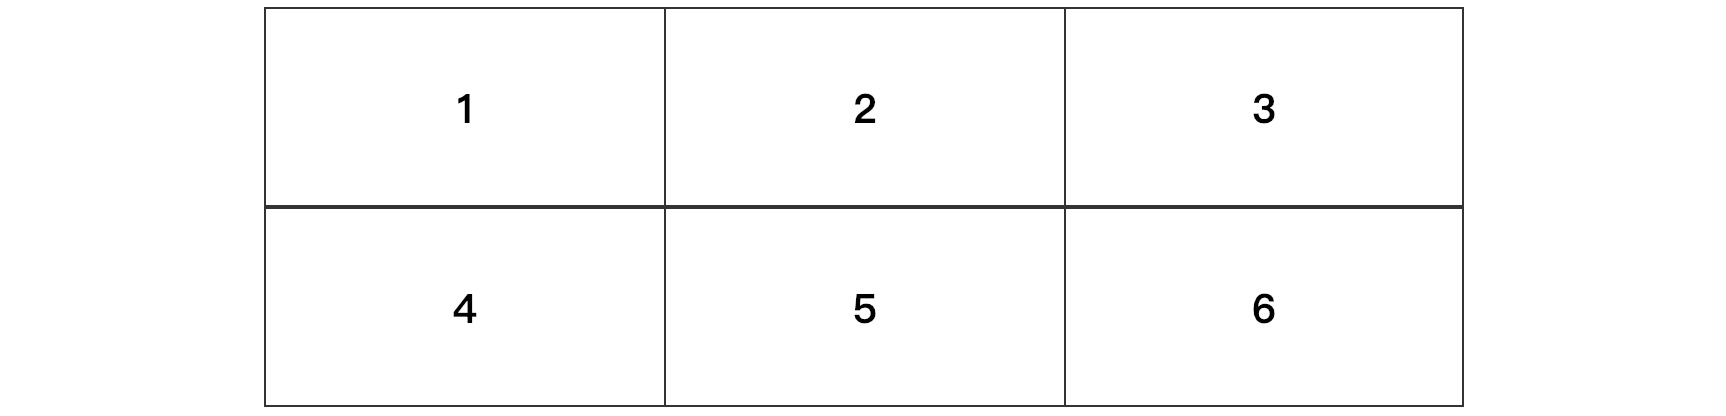
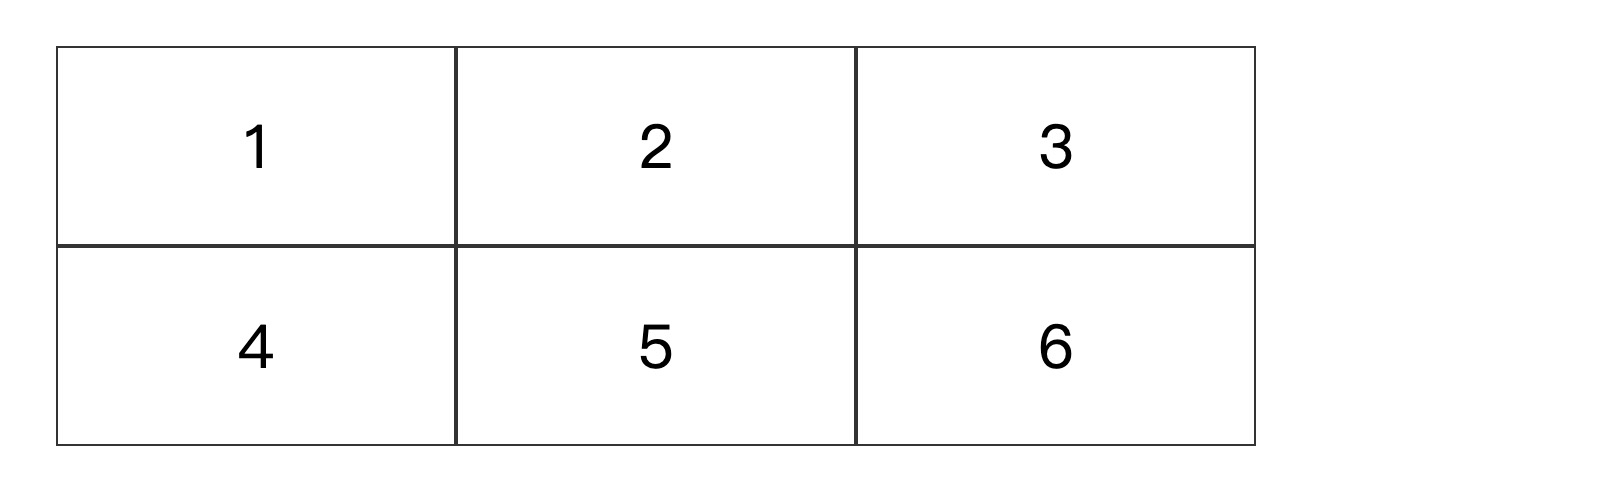
内容鞥更新

diff --git a/第13章 grid 布局.md b/第13章 grid 布局.md
@@ -1,18 +1,18 @@
-# # 概述
+一、概述
 
 Grid 布局是网站设计的基础，CSS Grid 是创建网格布局最强大和最简单的工具。它是一个二维的基于网格的布局系统，其目的只在于完全改变我们设计基于网格的用户界面的方式。 CSS一直用来布局网页，但一直都不完美。 一开始我们使用table 做布局，然后转向浮动、定位以及inline-block，但所有这些方法本质上都是 Hack 的方式，并且遗漏了很多重要的功能（例如垂直居中）。 Flexbox的出现在一定程度上解决了这个问题，但是它的目的是为了更简单的一维布局，而不是复杂的二维布局（Flexbox和Grid实际上一起工作得很好）。 只要我们一直在制作网站，我们就一直在为解决布局问题不断探索， 而Grid是第一个专门为解决布局问题而生的CSS模块。
 
-CSS Grid 布局由两个核心组成部分是 **container**（父元素）和 **items**（子元素）。 container 是实际的 grid(网格)，items 是 grid(网格) 内的内容。
+CSS Grid 布局由两个核心组成，分别是 **container**（父元素）和 **items**（子元素）。 container 是实际的 grid（网格），items 是 grid（网格）内的内容。
 
-# # 基础
+# 二、基础
 
-一开始你需要使用 *display：grid；* 把容器元素定义为一个网格，使用 *grid-template-columns* 和*grid-template-rows* 设置列和行大小，然后使用 *grid-column*  和 *grid-row* 把它的子元素放入网格。 与flexbox类似，网格子元素的原始顺序不重要。 你可以在 CSS 里以任意顺序放置它们，这使得使用媒体查询重新排列网格变得非常容易。 想象一下，我们需要定义整个页面的布局，然后为了适应不同的屏幕宽度完全重新排列，我们只需要几行CSS就能实现这个需求。 网格是有史以来最强大的CSS模块之一。
+一开始你需要使用 `display：grid` 把容器元素定义为一个网格，使用 `grid-template-columns` 和 `grid-template-rows` 设置列和行大小，然后使用 `grid-column`  和 `grid-row` 把它的子元素放入网格。 与flexbox类似，网格子元素的原始顺序不重要。 你可以在 CSS 里以任意顺序放置它们，这使得使用媒体查询重新排列网格变得非常容易。 想象一下，我们需要定义整个页面的布局，然后为了适应不同的屏幕宽度完全重新排列，我们只需要几行CSS就能实现这个需求。 网格是有史以来最强大的CSS模块之一。
 
 截至2017年3月，许多浏览器都提供了原生的、不加前缀的对CSS Grid的支持，比如 Chrome（包括Android），Firefox，Safari（包括iOS）和Opera。 另一方面，Internet Explorer 10和11支持它，但需要使用过时的语法。 Edge浏览器已经宣布将支持标准的Grid语法，但暂未支持
 
-> 浏览器支持的详细数据可在[Caniuse](https://caniuse.com/#feat=css-grid)查看。其中里面的数字表示该版本以上的浏览器支持Grid。
+> 提示：浏览器支持的详细数据可在[Caniuse](https://caniuse.com/#feat=css-grid)查看。其中里面的数字表示该版本以上的浏览器支持Grid。
 
-# # 重要术语
+# 三、重要术语
 
 ## 1. Grid Container
 
@@ -40,7 +40,7 @@ Grid 容器的直接子元素。下面的 `.item` 元素就是 grid item，但 `
 
 ## 3. Grid Line
 
-这个分界线组成网格结构。 它们既可以是垂直的（“column grid lines”），也可以是水平的（“row grid lines”），并位于行或列的任一侧。 下面例中的黄线就是一个列网格线。
+这个分界线组成网格结构。 它们既可以是垂直的（*column grid lines*），也可以是水平的（*row grid lines*），并位于行或列的任一侧。 下面例中的黄线就是一个列网格线。
 
 ![](./IMGS/grid-line.jpeg)
 
@@ -62,34 +62,29 @@ Grid 容器的直接子元素。下面的 `.item` 元素就是 grid item，但 `
 
 ![](./IMGS/grid-area.jpeg)
 
-# # 网格容器属性
+# 四、网格容器属性
 
 ## 01. display
 
-将元素定义为 grid container
+定义网格：
 
 ```css
-.container {
-  display: grid | inline-grid;
-}
+.container { display: grid | inline-grid; }
 ```
-
-- grid： 生成一个块级网格 *
-- inline-grid：生成一个行级网格
 
 ## 02. grid-template-columns、grid-template-rows
 
-使用以空格分隔的多个值来定义网格的列和行。这些值表示网格轨道(Grid Track) 大小（宽/高），它们之间的空格表示网格线。 
+使用以空格分隔的多个值来定义网格的列和行。这些值表示网格轨道大小（宽/高），它们之间的空格表示网格线。 
 
 ```CSS
 .container {
-  grid-template-columns: <track-size> ... | <line-name> <track-size> ...;
-  grid-template-rows: <track-size> ... | <line-name> <track-size> ...;
+  grid-template-columns: <track-size> ... | <[line-name]> <track-size> ...;
+  grid-template-rows: <track-size> ... | <[line-name]> <track-size> ...;
 }
 ```
 
 – `<track-size>`： 可以是长度值，百分比，或者等份网格容器中可用空间（使用 `fr` 单位）
-– `<line-name>`：你可以选择的任意名称
+– `<line-name>`：网格线名称
 
 示例：
 
@@ -103,67 +98,16 @@ Grid 容器的直接子元素。下面的 `.item` 元素就是 grid item，但 `
 
 ![](IMGS/grid-basic.png)
 
-上述代码表示3列2行的网格，每一列的宽度为200px，高度为100px。
+提示：
 
-当你在 网格轨道(Grid Track) 值之间留出空格时，网格线会自动分配正数和负数名称：
-
-```css
-.container {
-    display: grid;
-    grid-template-columns: 40px 50px auto 50px 40px;
-    grid-template-rows: 25% 100px auto;
-}
-```
-
-![](IMGS/template-columns-rows-01.svg)
-
-但是你可以明确的指定网格线(Grid Line)名称，例如 \<line-name> 值。请注意网格线名称的括号语法：
-
-```js
-.container {
-    display: grid;
-    grid-template-columns: [first] 40px [line2] 50px [line3] auto [col4-start] 50px [five] 40px [end];
-    grid-template-rows: [row1-start] 25% [row1-end] 100px [third-line] auto [last-line];
-}
-```
-
-![](IMGS/template-column-rows-02.svg)
-
-> 注意：网格线名称可以有多个，多个名称使用空格隔开。
-
-如果你的定义包含多个重复值，则可以使用 `repeat()` 表示法来简化定义：
-
-```css
-.container {
-    display: grid;
-    grid-template-columns: repeat(3, 100px);
-    grid-template-rows: 50px 50px;
-}
-```
-
-`fr` 单位允许你用等分网格容器剩余可用空间来设置网格轨道(Grid Track) 的大小 。例如，下面的代码会将每个网格项设置为网格容器宽度的三分之一：
-
-```js
-.container {
-    display: grid;
-    grid-template-columns: repeat(3, 1fr);
-    grid-template-rows: 50px 50px;
-}
-```
-
-剩余可用空间是除去所有非灵活网格项 **之后** 计算得到的。在这个例子中，可用空间总量减去 50px 后，再给 `fr` 单元的值 3 等分：
-
-```css
-.container {
-    display: grid;
-    grid-template-columns: repeat(3, 1fr) 50px;
-    grid-template-rows: 50px 50px;
-}
-```
+- 当你在 网格轨道(Grid Track) 值之间留出空格时，网格线会自动分配正数和负数名称，计数从1或-1开始。
+- 你可以用中括号明确指定网格线名称，如果要设置多个名称用空格隔开。
+- 如果你的定义包含多个重复值，则可以使用 `repeat()` 表示法来简化定义。
+- 你可以使用 `fr` 单位平分剩余控件。
 
 ## 03. grid-template-areas
 
-通过引用 [`grid-area`](https://www.css88.com/archives/8510#prop-grid-area) 属性指定的网格区域(Grid Area) 名称来定义网格模板。重复网格区域的名称导致内容跨越这些单元格。一个点号（`.`）代表一个空单元格。这个语法本身可视作网格的可视化结构。
+通过引用 [`grid-area`](https://www.css88.com/archives/8510#prop-grid-area) 属性指定的网格区域名称来定义网格模板。重复网格区域的名称导致内容跨越这些单元格。一个点号（`.`）代表一个空单元格。这个语法本身可视作网格的可视化结构。
 
 值：
 
@@ -225,7 +169,7 @@ Grid 容器的直接子元素。下面的 `.item` 元素就是 grid item，但 `
 
 ## 04. grid-gap
 
-指定网格线(grid lines)的大小。你可以把它想象为设置列/行之间的间距。其语法形式如下：
+设置网格间距，其语法形式如下：
 
 ```css
 .container {
@@ -237,21 +181,21 @@ Grid 容器的直接子元素。下面的 `.item` 元素就是 grid item，但 `
 
 ```css
 .container {
-  grid-template-columns: 100px 50px 100px;
-  grid-template-rows: 80px auto 80px; 
-  grid-gap: 15px 10px;
+    margin: 50px 20px;
+    display: grid;
+    grid-template-columns: repeat(3, 200px);
+    grid-template-rows: repeat(2, 100px);
+    grid-gap: 30px 50px;
 }
 ```
 
-![](IMGS/grid_gap.jpeg)
+![](IMGS/grid-gap.png)
 
-只能在 列/行 之间创建间距，网格外部边缘不会有这个间距。
-
-> 注意：这个属性将删除 `grid-` 前缀，就是将 `grid-gap` 重命名为 `gap`。 Chrome 68+，Safari 11.2 Release 50+ 和Opera 54+ 已经支持无前缀的属性。
+> 提示：只能在 列/行 之间创建间距，网格外部边缘不会有这个间距。
 
 ## 05. justify-items
 
-沿着 *inline*（行/水平/X）轴线对齐网格项（grid items）。此值适用于容器内的所有网格项。
+沿着 **inline** 轴线对齐网格项。此值适用于容器内的所有网格项。
 
 值：
 
@@ -306,7 +250,7 @@ Grid 容器的直接子元素。下面的 `.item` 元素就是 grid item，但 `
 
 ## 06. align-items
 
-沿着 *block*（列/垂直/Y）轴线对齐网格项（grid items）。此值适用于容器内的所有网格项。
+沿着 **block**轴线对齐网格项。此值适用于容器内的所有网格项。
 
 值：
 
@@ -335,7 +279,7 @@ Grid 容器的直接子元素。下面的 `.item` 元素就是 grid item，但 `
 }
 ```
 
-如果省略第二个值，则将第一个值同时分配给这两个属性。
+> 提示：如果省略第二个值，则将第一个值同时分配给这两个属性。
 
 > 注意：除 Edge 之外的所有主要浏览器都支持 `place-items` 简写属性。
 
@@ -437,89 +381,20 @@ Grid 容器的直接子元素。下面的 `.item` 元素就是 grid item，但 `
 
 > 注意：除 Edge 之外的所有主要浏览器都支持 `place-content` 简写属性。
 
-## 11. grid-auto-columns / grid-auto-rows
+# 五、网格项属性
 
-# # 网格项属性
+## 01. grid-column、grid-row
 
-## 1. grid-column-start / grid-column-end / grid-row-start / grid-row-end
+通过指定特定的网格线来确定网格项在网格中的位置。
 
-通过引用特定网格线（grid lines） 来确定 网格项（grid item）在网格内的位置。 [`grid-column-start`](https://www.css88.com/archives/8510#prop-grid-column-row-start-end) / [`grid-row-start`](https://www.css88.com/archives/8510#prop-grid-column-row-start-end) 是网格项开始的网格线，[`grid-column-end`](https://www.css88.com/archives/8510#prop-grid-column-row-start-end) / [`grid-row-end`](https://www.css88.com/archives/8510#prop-grid-column-row-start-end) 是网格项结束的网格线。
-
-值：
-
-- `<line>` ：可以是一个数字引用一个编号的网格线，或者一个名字来引用一个命名的网格线
-- `span <number>` ：该网格项将跨越所提供的网格轨道数量
-- `span <name>` ：该网格项将跨越到它与提供的名称位置
-- `auto`：表示自动放置，自动跨度，默认会扩展一个网格轨道的宽度或者高度
-
-```css
+```
 .item {
-  grid-column-start: <number> | <name> | span <number> | span <name> | auto
-  grid-column-end: <number> | <name> | span <number> | span <name> | auto
-  grid-row-start: <number> | <name> | span <number> | span <name> | auto
-  grid-row-end: <number> | <name> | span <number> | span <name> | auto
+	grid-row: <start-line> <end-line>;
+	grid-column: <start-line> <end-line>;
 }
 ```
 
-代码示例：
-
-```css
-.item-a {
-  grid-column-start: 2;
-  grid-column-end: five;
-  grid-row-start: row1-start
-  grid-row-end: 3;
-}
-```
-
-![](IMGS/grid-column-row-start-end-01.svg)
-
-```css
-.item-b {
-  grid-column-start: 1;
-  grid-column-end: span col4-start;
-  grid-row-start: 2
-  grid-row-end: span 2
-}
-```
-
-![](IMGS/grid-column-row-start-end-02.svg)
-
-如果没有声明指定 [`grid-column-end`](https://www.css88.com/archives/8510#prop-grid-column-row-start-end) / [`grid-row-end`](https://www.css88.com/archives/8510#prop-grid-column-row-start-end)，默认情况下，该网格项将占据 1 个轨道。
-
-项目可以相互重叠。您可以使用 `z-index` 来控制它们的重叠顺序。
-
-## 2. grid-column / grid-row
-
-分别为 [`grid-column-start`](https://www.css88.com/archives/8510#prop-grid-column-row-start-end) + [`grid-column-end`](https://www.css88.com/archives/8510#prop-grid-column-row-start-end) 和 [`grid-row-start`](https://www.css88.com/archives/8510#prop-grid-column-row-start-end) + [`grid-row-end`](https://www.css88.com/archives/8510#prop-grid-column-row-start-end) 的简写形式。
-
-值：
-
-- `<start-line> / <end-line>`：每个网格项都接受所有相同的值，作为普通书写的版本，包括跨度
-
-语法如下：
-
-```css
-.item {
-  grid-column: <start-line> / <end-line> | <start-line> / span <value>;
-  grid-row: <start-line> / <end-line> | <start-line> / span <value>;
-}
-```
-
-代码示例：
-
-```css
-.item-c {
-  grid-column: 3 / span 2;
-  grid-row: third-line / 4;
-}
-```
-
-![](IMGS/grid-column-row.svg)
-
-> 注意：如果没有声明分隔线结束位置，则该网格项默认占据 1 个网格轨道。
-
-## 3. grid-area
+## 02. grid-area
 
 为网格项提供一个名称，以便可以被使用网格容器 [`grid-template-areas`](https://www.css88.com/archives/8510#prop-grid-template-areas) 属性创建的模板进行引用。 另外，这个属性可以用作[`grid-row-start`](https://www.css88.com/archives/8510#prop-grid-column-row-start-end) + [`grid-column-start`](https://www.css88.com/archives/8510#prop-grid-column-row-start-end) + [`grid-row-end`](https://www.css88.com/archives/8510#prop-grid-column-row-start-end) + [`grid-column-end`](https://www.css88.com/archives/8510#prop-grid-column-row-start-end)的简写。
 
@@ -536,61 +411,17 @@ Grid 容器的直接子元素。下面的 `.item` 元素就是 grid item，但 `
 }
 ```
 
-示例：
+## 03. justify-self
 
-作为为网格项分配名称的一种方法：
+单独设置某个子元素沿着 **inline**轴线对齐网格项，类似于 `justfy-items`。
 
-```css
-.item-d {
-  grid-area: "header"
-}
-```
+## 04. align-self
 
-作为[`grid-row-start`](https://www.css88.com/archives/8510#prop-grid-column-row-start-end) + [`grid-column-start`](https://www.css88.com/archives/8510#prop-grid-column-row-start-end) + [`grid-row-end`](https://www.css88.com/archives/8510#prop-grid-column-row-start-end) + [`grid-column-end`](https://www.css88.com/archives/8510#prop-grid-column-row-start-end) 属性的简写形式：
+单独设置某个子元素沿着 **inline**轴线对齐网格项，类似于 `align-items`。
 
-```css
-.item-d {
-    grid-area: 1 / col4-start / last-line / 6
-}
-```
+## 05. place-self
 
-![](IMGS/grid-area.svg)
-
-## 4. justify-self
-
-沿着 *inline*（行/水平/X）轴线对齐网格项（ 相反的属性是 [`align-self`](https://www.css88.com/archives/8510#prop-align-self) ，沿着 *block*（列）轴线对齐）。此值适用于单个网格项内的内容。
-
-值：
-
-- `start`：将网格项对齐到其单元格的左侧起始边缘（左侧对齐）
-- `end`：将网格项对齐到其单元格的右侧结束边缘（右侧对齐）
-- `center`：将网格项对齐到其单元格的水平中间位置（水平居中对齐）
-- `stretch`：填满单元格的宽度（默认值）
-
-语法形式：
-
-```css
-.item {
-  justify-self: start | end | center | stretch;
-}
-```
-
-该属性和容器中指定 *justify-items* 是一致，区别在于 *justify-items* 是统一设置所有items的布局，而 *justify-self* 是设置指定某个item的布局，这里不再演示具体效果。
-
-## 5. align-self
-
-沿着 *block*（列/垂直/Y）轴线对齐网格项(grid items)（ 相反的属性是 [`justify-self`](https://www.css88.com/archives/8510#prop-justify-self) ，沿着 *inline*（行）轴线对齐）。此值适用于单个网格项内的内容。
-
-该属性和 *justify-self* 属性一致，二者都是设置某个指定item在网格中的位置，区别在于 *justify-self* 是设置水平位置，而 *align-self* 是设置垂直位置。
-
-## 6. place-self
-
-`place-self` 是设置 `align-self` 和 `justify-self` 的简写形式。
-
-值：
-
-- `auto` – 布局模式的 “默认” 对齐方式。
-- `<align-self> <justify-self>`：第一个值设置 `align-self` 属性，第二个值设置 `justify-self`属性。如果省略第二个值，则将第一个值同时分配给这两个属性。
+类似于`lace-items` ，是设置 `align-self` 和 `justify-self` 的简写形式。
 
 
 
